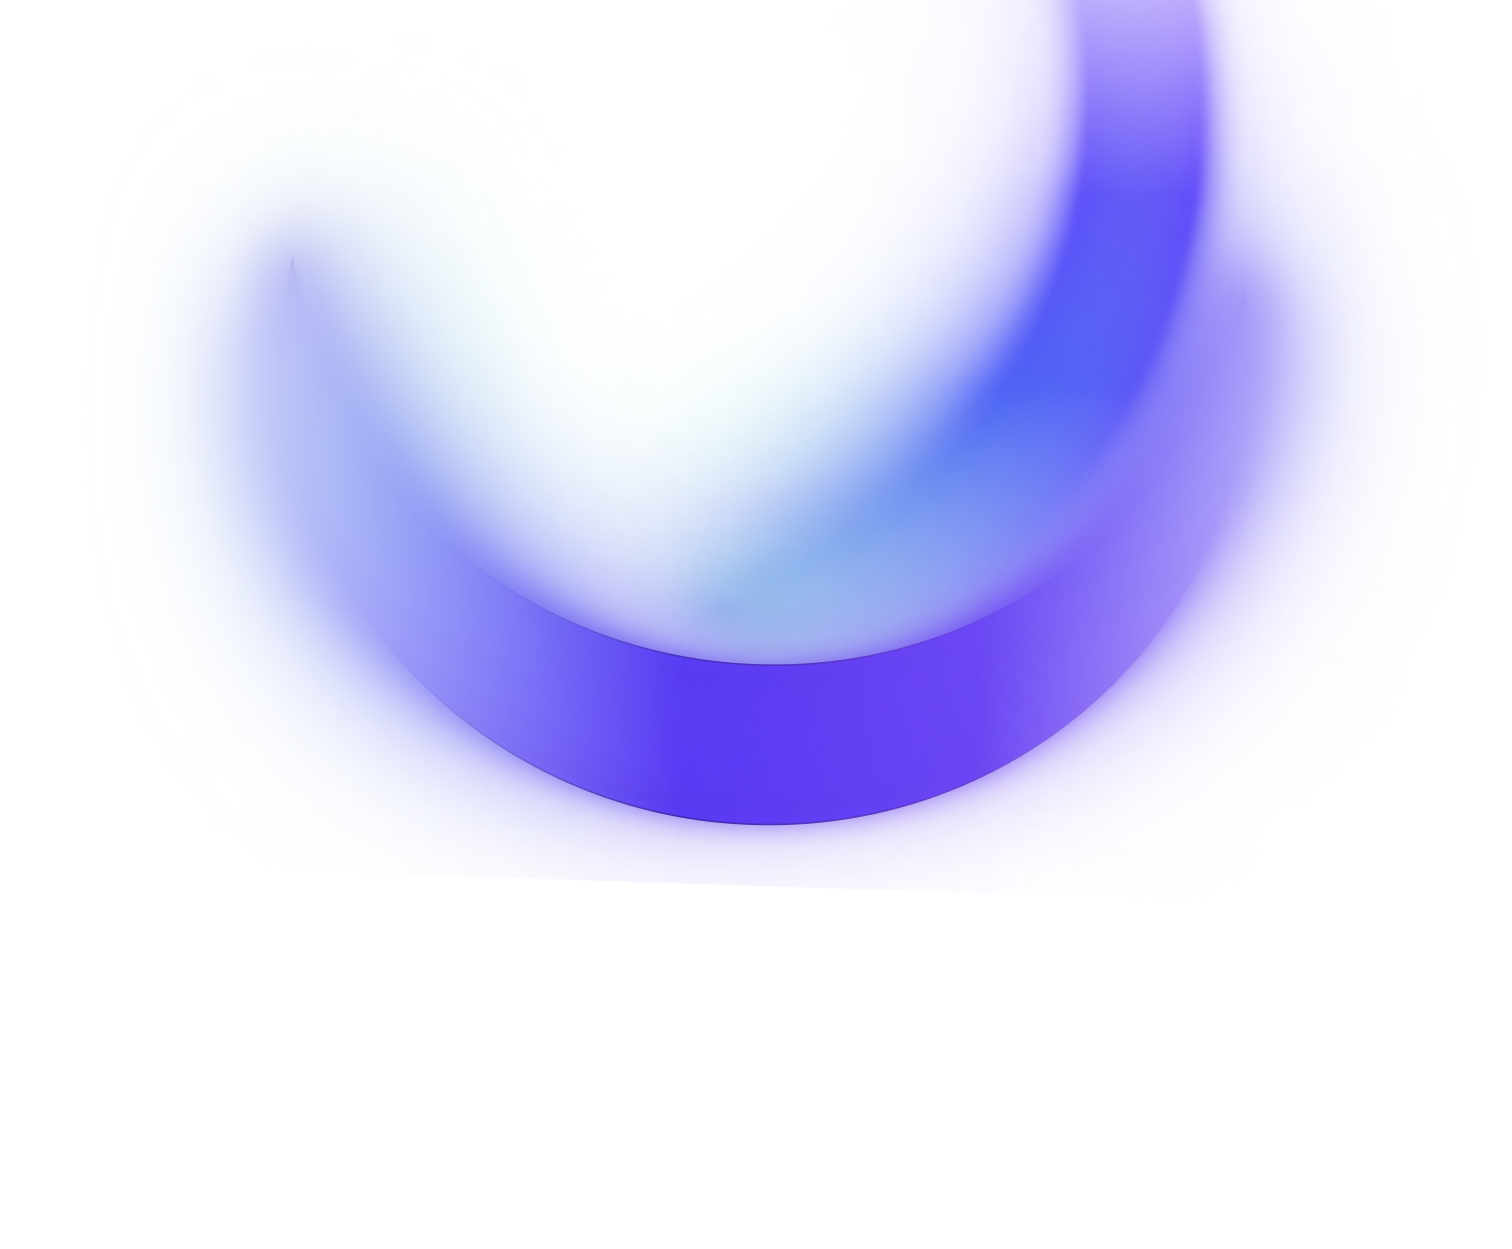
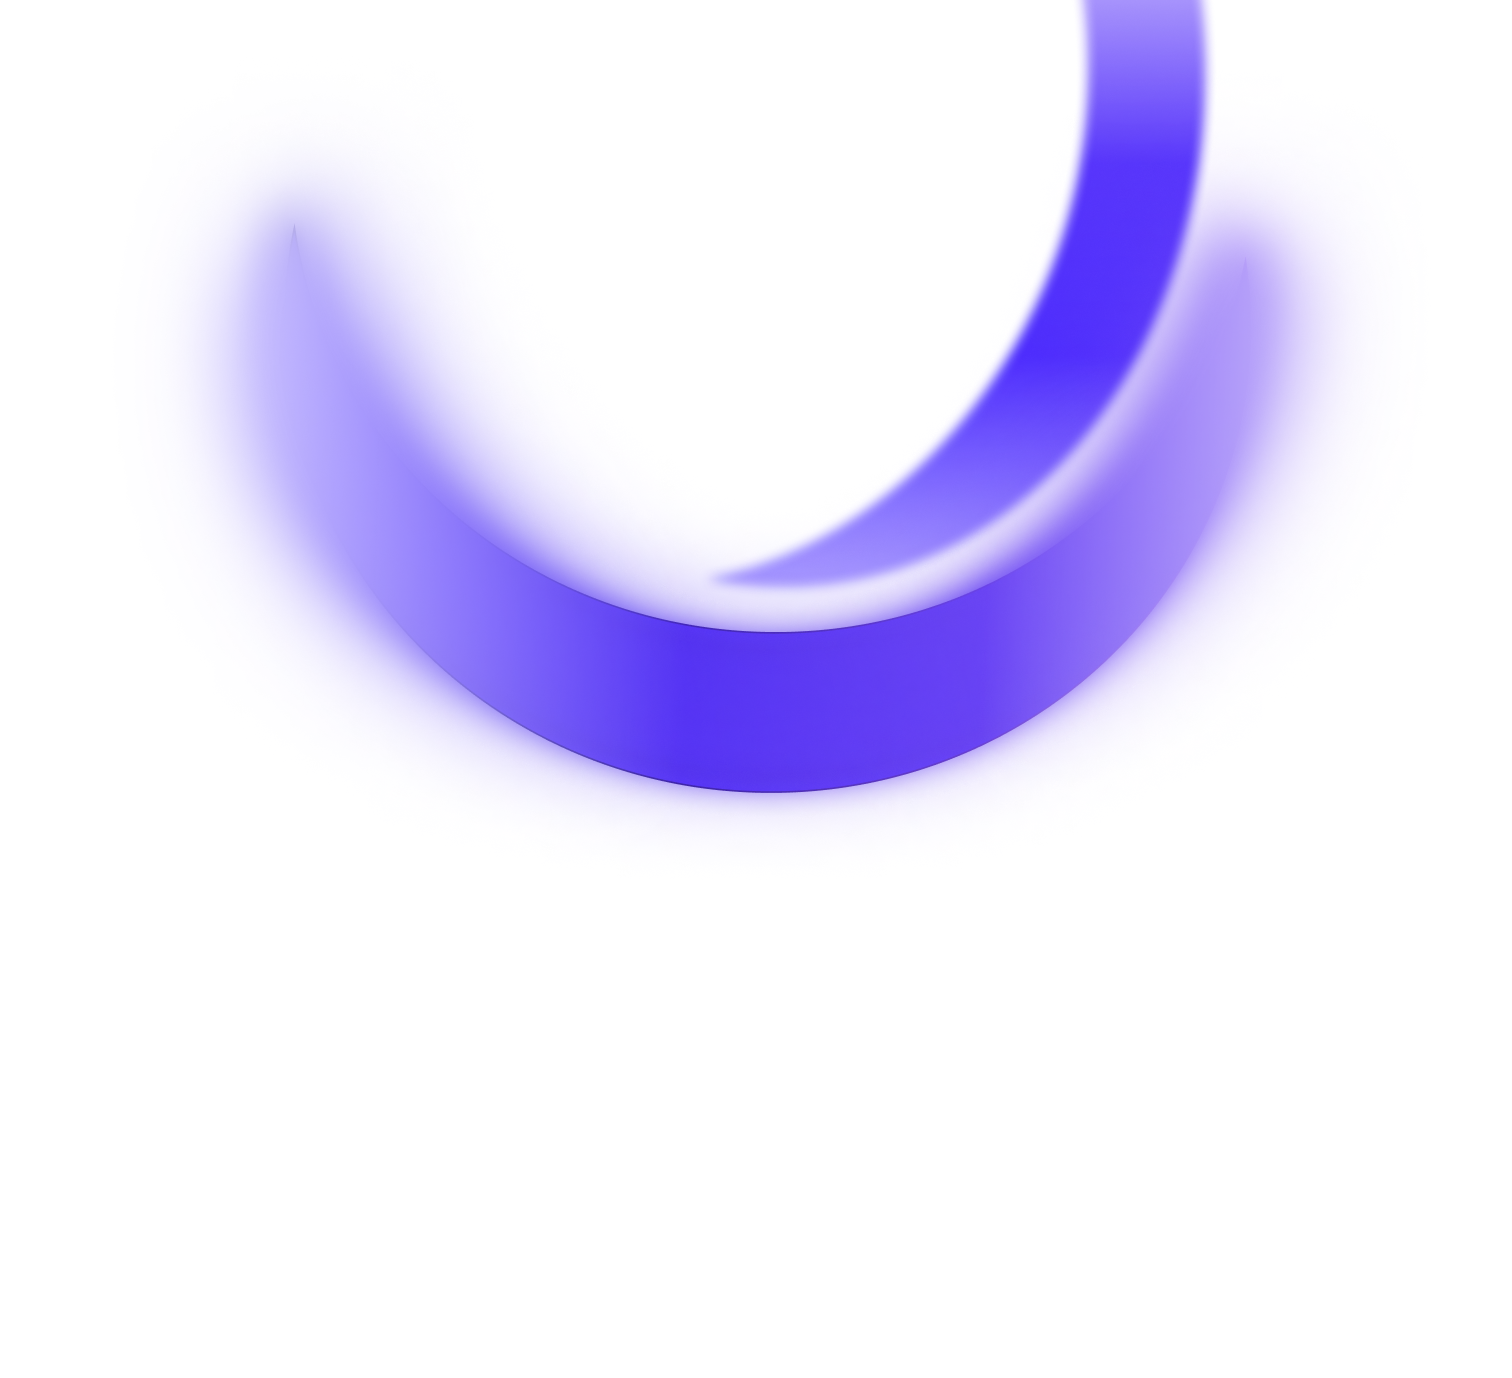
Fix Background

Changed region(s): [[0.1554, 0.0, 0.8704, 0.6869]]

diff --git a/src/components/Footer.tsx b/src/components/Footer.tsx
@@ -2,8 +2,6 @@ import React from 'react'
 import styled from 'styled-components'
 import { Grid, makeStyles, Theme, Typography, Link } from '@material-ui/core'
 
-import Logo from './Logo'
-import { TelegramIcon } from 'components'
 import { StyledLink } from './LinkList'
 
 import {
@@ -16,14 +14,12 @@ import {
   WHITE_PAPER,
   APP_LINK,
 } from 'config/constants/constant'
-import { GithubIcon, DiscordIcon, TwitterIcon, MediumIcon } from 'components'
 import useDarkMode from 'hooks/useDarkMode'
 
 const SiteMapWrapper = styled.div`
   display: flex;
   align-items: flex-end;
   justify-content: center;
-  background-color: ${({ theme }) => theme.palette.background.primary};
   padding: ${({ theme }) => theme.spacing(6)}px;
   ${({ theme }) => theme.muibreakpoints.down('sm')} {
     display: none;
@@ -47,40 +43,9 @@ const StyledDiv = styled.div`
   }
 `
 
-const CopyrightWrapper = styled.div`
-  display: flex;
-  align-items: center;
-  justify-content: center;
-  flex-direction: column;
-  background-color: ${({ theme }) => theme.palette.background.primary};
-  color: ${({ theme }) => theme.palette.text.primary};
-  padding: 24px 0;
-
-  ${({ theme }) => theme.muibreakpoints.down('md')} {
-    flex-direction: column;
-  }
-`
-
 const CopyrightText = styled.div`
   margin-bottom: 20px;
   order: 3;
-`
-
-const IconWrapper = styled.div`
-  min-width: 50px;
-  display: flex;
-  align-items: center;
-  justify-content: center;
-
-  &:first-child {
-    margin-left: 0;
-  }
-  &:last-child {
-    margin-right: 0;
-    a {
-      padding-right: 0;
-    }
-  }
 `
 
 export const LogoTextLink = styled(Link)`
@@ -109,6 +74,11 @@ const useStyles = makeStyles(({ palette }: Theme) => ({
       textDecoration: 'none',
     },
   },
+  logo: {
+    '&:hover': {
+      textDecoration: 'none',
+    },
+  },
   logoTitle: {
     maxWidth: '250px',
     marginTop: '30px',
@@ -131,7 +101,7 @@ const Footer: React.FC = () => {
               href={HOMEPAGE_LINK}
               target="_self"
               rel="noreferrer noopener"
-              className={classes.listItem}
+              className={classes.logo}
             >
               DeltaFi
             </LogoTextLink>
@@ -140,6 +110,7 @@ const Footer: React.FC = () => {
             </Typography>
             <CopyrightText style={{ marginTop: 100, fontSize: '17px' }}>Copyright © 2022. DeltaFi</CopyrightText>
           </Grid>
+          <br/>
           <Grid item className={classes.column}>
             <Typography variant="body1" align="center" paragraph className={classes.listTitle}>
               Company
@@ -165,7 +136,7 @@ const Footer: React.FC = () => {
               DeltaFi DEX
             </StyledLink>
             <br />
-            <StyledLink
+            {/* <StyledLink
               color="inherit"
               href={APP_LINK}
               target="_blank"
@@ -173,7 +144,7 @@ const Footer: React.FC = () => {
               className={classes.listItem}
             >
               Governance
-            </StyledLink>
+            </StyledLink> */}
           </Grid>
           <Grid item className={classes.column}>
             <Typography variant="body1" paragraph className={classes.listTitle}>

diff --git a/src/views/Tokenomics/Tokenomics.tsx b/src/views/Tokenomics/Tokenomics.tsx
@@ -1,8 +1,9 @@
 import React from 'react'
 import styled from 'styled-components'
-import { Button as MUIButton, Box, Container, Grid, makeStyles, Theme, Typography, Link } from '@material-ui/core'
+import { Box, Container, Grid, makeStyles, Theme, Typography, Link } from '@material-ui/core'
 
 import { HOMEPAGE_LINK } from 'config/constants/constant'
+import { RewardButton } from 'components'
 
 const StyledPage = styled('div')(({ theme }) => ({
   backgroundColor: theme.palette.background.primary,
@@ -66,25 +67,6 @@ const useStyles = makeStyles(({ palette, breakpoints, spacing }: Theme) => ({
     fontSize: 20,
     fontWeight: 'normal',
   },
-  button: {
-    backgroundImage: `linear-gradient(52.7deg, #1AFA9A -3.73%, #478EF0 48.34%, #9945FD 93.4%), ${palette.gradient.cta}`,
-    color: palette.text.primary,
-    borderRadius: 100,
-    border: 'solid 1px transparent',
-    backgroundOrigin: 'border-box',
-    boxShadow: `2px 1000px 1px ${palette.background.primary} inset`,
-
-    '&:hover': {
-      color: palette.text.primary,
-      boxShadow: 'none',
-    },
-
-    height: 55,
-    width: 200,
-    fontSize: 18,
-    fontWeight: 500,
-    textTransform: 'none',
-  },
   image: {
     margin: 'auto',
     alignSelf: 'center',
@@ -136,9 +118,9 @@ const Tokenomics: React.FC = (props) => {
             </Typography>
           </Grid>
           <Box marginTop={4} marginBottom={30}>
-            <MUIButton color="primary" href={HOMEPAGE_LINK} className={classes.button}>
+            <RewardButton color="primary" href={HOMEPAGE_LINK}>
               Learn More
-            </MUIButton>
+            </RewardButton>
           </Box>
           <Grid item sm={12} md={12}>
             <Typography variant="h1" align="center" paragraph className={classes.header}>

diff --git a/src/CustomRoute.tsx b/src/CustomRoute.tsx
@@ -1,10 +1,22 @@
 import { Route } from 'react-router-dom'
+import { styled } from '@material-ui/core/styles'
 import Header from './components/Header'
 import Footer from 'components/Footer'
 
+const StyledPage = styled('div')(({ theme }) => ({
+  backgroundColor: theme.palette.background.primary,
+  backgroundImage: 'url(/images/homepage/bottom-bg.png)',
+  backgroundRepeat: 'no-repeat',
+  backgroundPosition: 'bottom',
+  backgroundSize: '100%',
+  [theme.breakpoints.down('sm')]: {
+    backgroundSize: '1000px',
+  },
+}))
+
 const CustomRoute = ({ component: Component, ...rest }) => {
   return (
-    <>
+    <StyledPage>
       <Header />
       <Route
         {...rest}
@@ -13,7 +25,7 @@ const CustomRoute = ({ component: Component, ...rest }) => {
         }}
       />
       <Footer />
-    </>
+    </StyledPage>
   )
 }
 

diff --git a/src/components/layout/Page.tsx b/src/components/layout/Page.tsx
@@ -4,10 +4,9 @@ import { Helmet } from 'react-helmet-async'
 import { DEFAULT_META } from 'config/constants/meta'
 
 const StyledPage = styled('div')(({ theme }) => ({
-  backgroundColor: theme.palette.background.primary,
-  backgroundImage: 'url(/images/homepage/landing-bg.png), url(/images/homepage/background.png)', 
-  backgroundRepeat: 'no-repeat, no-repeat',
-  backgroundPosition: 'top, bottom',
+  backgroundImage: 'url(/images/homepage/landing-bg.png)', 
+  backgroundRepeat: 'no-repeat',
+  backgroundPosition: 'top',
   backgroundSize: '100%',
   [theme.breakpoints.down('sm')]: {
     backgroundSize: '1000px',

diff --git a/src/views/Home/components/JoinUs.tsx b/src/views/Home/components/JoinUs.tsx
@@ -121,7 +121,7 @@ const JoinUs = () => {
 
   const INVESTOR_LIST = [
     {
-      img: '/images/dark-jumpcaptal.png',
+      img: '/images/dark-jumpcapital.png',
     },
     {
       img: '/images/dark-hashed.svg',
@@ -160,7 +160,7 @@ const JoinUs = () => {
             <Grid item key={`card-${index}`} xs={4}>
               <InvestorCard>
                 <Box padding={5}>
-                  <img src={card.img}/>
+                  <img src={card.img} />
                 </Box>
               </InvestorCard>
             </Grid>
